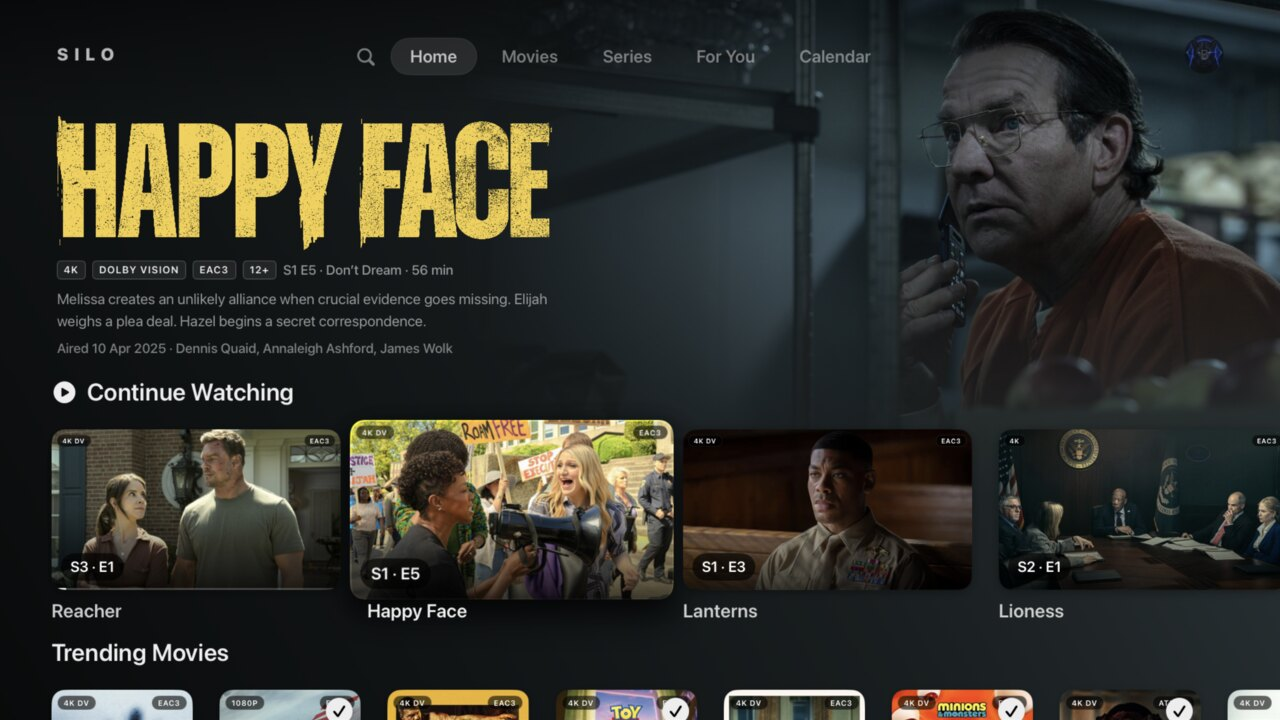
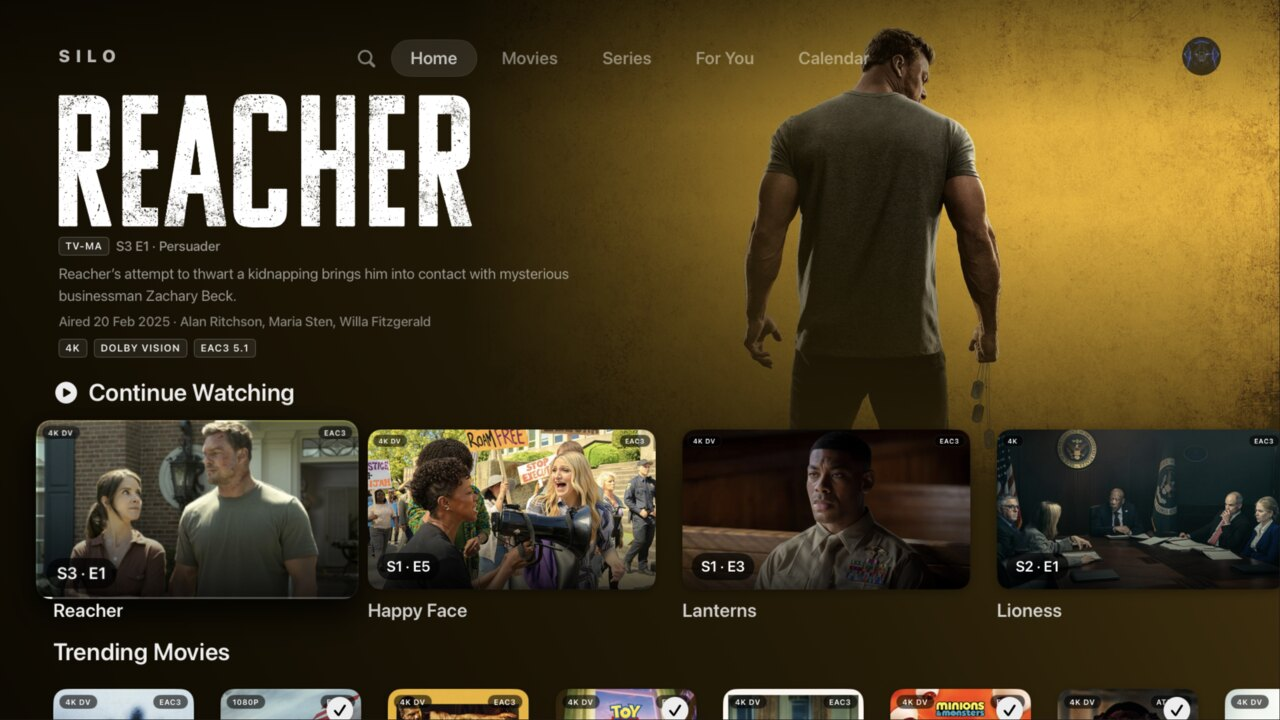
Refine tvOS Home marquee metadata

diff --git a/iosApp/iosApp/tvOS/Components/TVFocusMarquee.swift b/iosApp/iosApp/tvOS/Components/TVFocusMarquee.swift
@@ -990,7 +990,8 @@ struct TVFocusMarquee: View {
 // MARK: - Content block
 
 /// One marquee "frame": title (text first, cached logo art may swap
-/// in), badge + meta line, synopsis. The §5.4 eyebrow (source-row title)
+/// in), identity line, synopsis, enrichment, then technical badges. The
+/// §5.4 eyebrow (source-row title)
 /// was dropped by design revision — the row's own header already names
 /// the source, and the marquee leads with the title. Identity is keyed
 /// on the content id by the parent so a content change crossfades whole
@@ -1032,7 +1033,7 @@ private struct TVMarqueeBlock: View {
     }
 
     var body: some View {
-        VStack(alignment: .leading, spacing: 16) {
+        VStack(alignment: .leading, spacing: 14) {
             titleSlot
 
             metaLine
@@ -1047,6 +1048,8 @@ private struct TVMarqueeBlock: View {
             }
 
             detailLine
+
+            badgeLine
         }
         .frame(maxWidth: ContinuumTheme.Skyline.marqueeContentWidth, alignment: .leading)
         .onAppear { loadLogoIfCached() }
@@ -1125,19 +1128,56 @@ private struct TVMarqueeBlock: View {
 
     @ViewBuilder
     private var metaLine: some View {
-        if !displayedBadges.isEmpty || !content.metaParts.isEmpty {
+        if !displayedMetaParts.isEmpty {
             HStack(spacing: 10) {
-                ForEach(displayedBadges, id: \.self) { badge in
-                    badgeChip(badge)
+                if let episodeRatingBadge {
+                    badgeChip(episodeRatingBadge)
                 }
 
-                if !content.metaParts.isEmpty {
-                    Text(content.metaParts.joined(separator: " · "))
-                        .font(.system(size: scale.metaSize, weight: .medium))
-                        .foregroundStyle(Color.continuumSecondaryText)
-                        .lineLimit(1)
+                Text(displayedMetaParts.joined(separator: " · "))
+                    .font(.system(size: scale.metaSize, weight: .medium))
+                    .foregroundStyle(Color.continuumSecondaryText)
+                    .lineLimit(1)
+            }
+            .frame(
+                maxWidth: ContinuumTheme.Skyline.marqueeSynopsisMaxWidth,
+                alignment: .leading
+            )
+        }
+    }
+
+    /// Continue Watching episodes lead with only their location and title.
+    /// Runtime and remaining-time data stay available to VoiceOver, but no
+    /// longer compete with the episode name in the visible identity row.
+    private var displayedMetaParts: [String] {
+        content.isEpisode ? Array(content.metaParts.prefix(2)) : content.metaParts
+    }
+
+    /// Episode ratings belong with episode identity, immediately before the
+    /// season/episode token. Movie ratings remain in the technical row.
+    private var episodeRatingBadge: String? {
+        content.isEpisode ? content.contentRatingBadge : nil
+    }
+
+    private var displayedTechnicalBadges: [String] {
+        guard let episodeRatingBadge else { return displayedBadges }
+        return displayedBadges.filter {
+            $0.localizedCaseInsensitiveCompare(episodeRatingBadge) != .orderedSame
+        }
+    }
+
+    /// Technical capabilities and rating sit below the async aired/cast line.
+    /// Every media item reserves the same slot, so saved-file enrichment can
+    /// update the labels without moving the Home marquee or its first row.
+    @ViewBuilder
+    private var badgeLine: some View {
+        if content.contentId != nil {
+            HStack(spacing: 10) {
+                ForEach(displayedTechnicalBadges, id: \.self) { badge in
+                    badgeChip(badge)
                 }
             }
+            .frame(height: 27, alignment: .leading)
         }
     }
 
